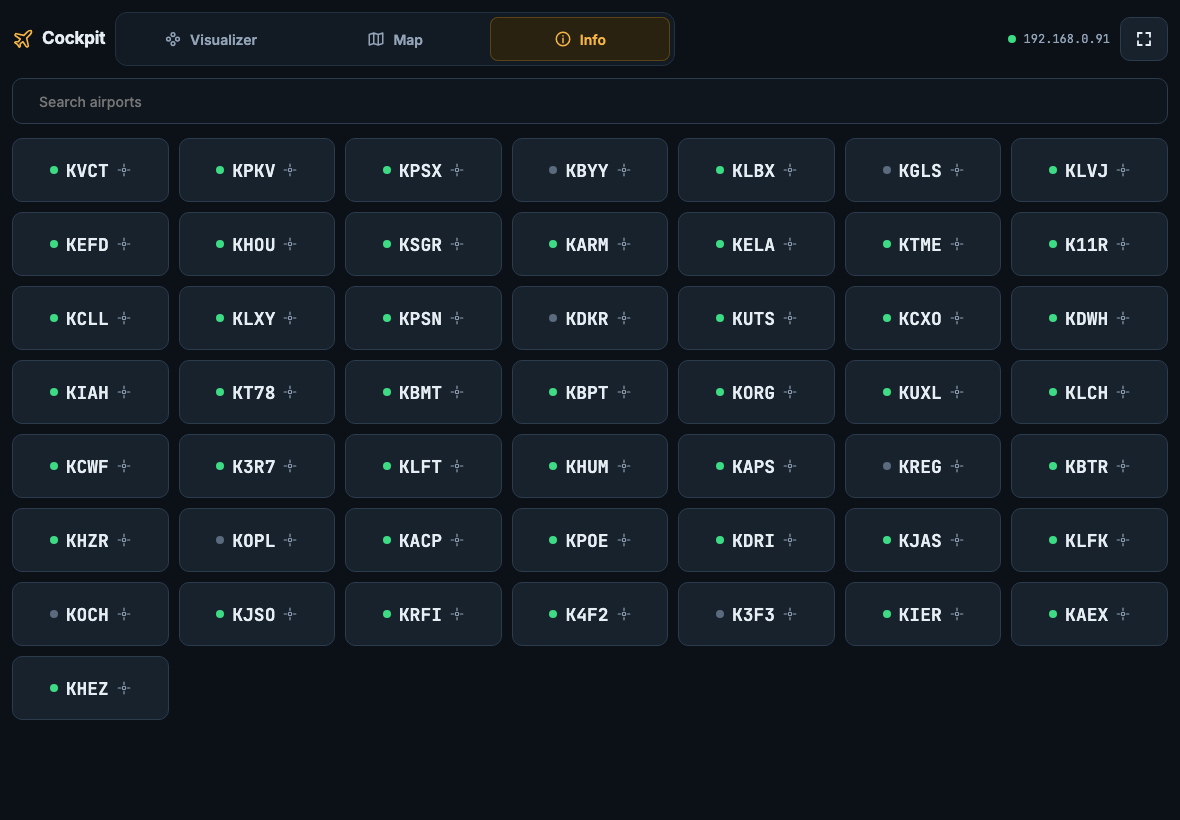
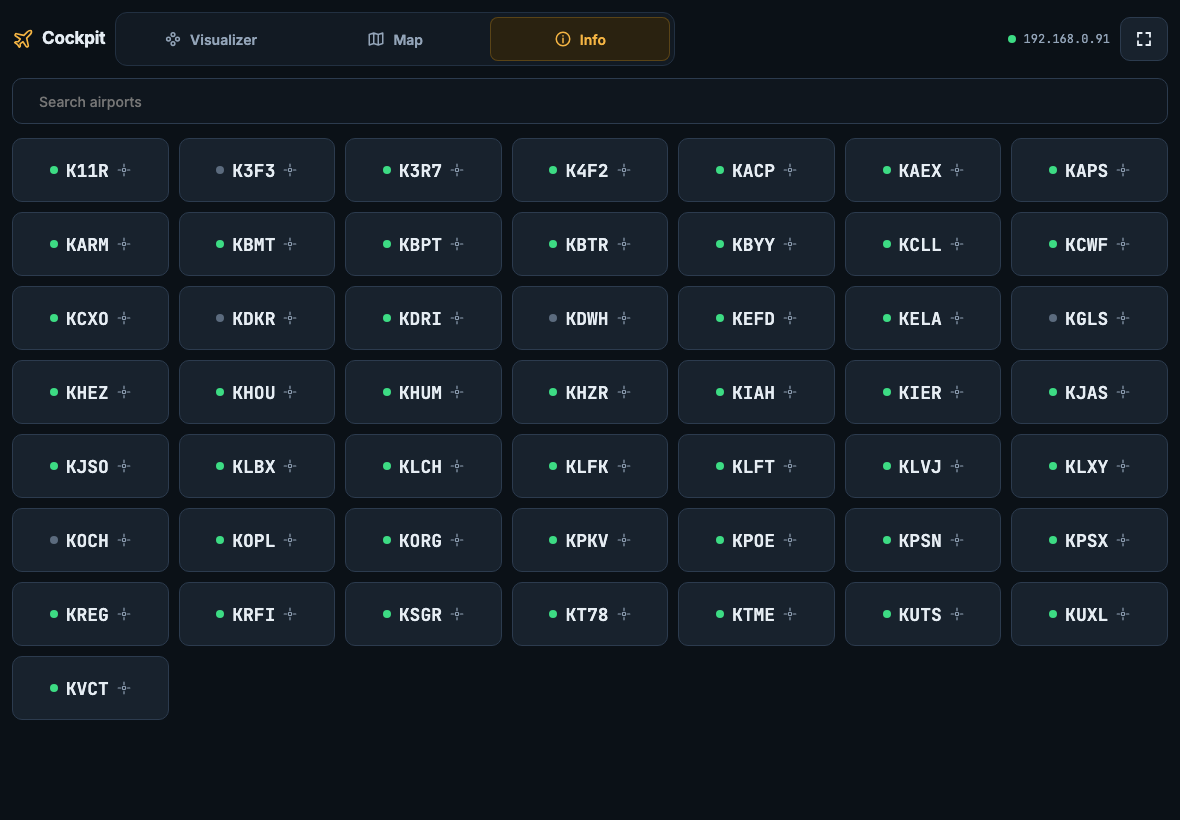
Cockpit Info tab: list the airports A to Z

diff --git a/tests/test_web.py b/tests/test_web.py
@@ -1639,8 +1639,11 @@ def test_the_info_tab_offers_awos_with_a_server(client):
     page = client("/cockpit")[1]
     assert info_modes(page) == ["locate", "awos"] and 'id="r-speak-audio"' in page
     codes = [a.code for a in client.services.config.airports if a.code]
-    assert re.findall(r'data-speak="([A-Z0-9]+)"', page) == codes  # each airport, in the map's order
+    assert re.findall(r'data-speak="([A-Z0-9]+)"', page) == sorted(codes)  # each airport, A to Z
     assert page.count('data-call="/locate/') == len(codes)  # Locate is the mode it opens in (cockpit.js)
+    pairs = re.findall(r'data-station="([A-Z0-9]+)"[^>]*?data-pixel="(\d+)"', page, re.S)
+    expected = [(a.code, str(i)) for i, a in enumerate(client.services.config.airports) if a.code]
+    assert pairs == sorted(expected)  # each tile keeps its own pixel; the map's list isn't reordered
 
 
 def test_the_info_tab_offers_atis_with_speech_atis(client):

diff --git a/src/metarmap/web/pages.py b/src/metarmap/web/pages.py
@@ -85,6 +85,7 @@ def cockpit(services: Services, site):
         site,
         "cockpit.tpl",
         stations=s,
+        airports=sorted(s, key=lambda a: a["code"]),  # the Info tab's tiles, A to Z (the map keeps its pixel order)
         cats=views.CATEGORIES,
         settings=views.map_settings(services.config.data.geo.map, site.sectionals, s),
         active=views.visualizer(services.renderer),

diff --git a/API.md b/API.md
@@ -866,7 +866,7 @@ backup and Undo as for a new plan.
 | `GET /metars` | | Table of METARs for every airport |
 | `GET /map` | | Live mirror of the Chart and the Micro on an FAA chart, satellite or radar background (a new radar scan every 5 minutes while radar is shown). An airport's popup has Summary, Raw and Decoded tabs, and with spoken weather on a Listen tab: its AWOS (showing the raw METAR), and its ATIS (the FAA's text, read along) where `leds[].atis` |
 | `GET /map/legend` | | The active visualizer's legend (HTML), which the Map page and the Cockpit swap in when the visualizer changes |
-| `GET /cockpit` | | MetarMap2 Cockpit: a remote control laid out for an iPad in kiosk mode, in three tabs: Visualizer (the visualizers and the legend, with a footer of controls: the auto-rotate switch with a countdown to the next visualizer, which is saved, and pixel brightness and the Micro switch, which aren't), Map (the Map page's live map, with its visualizer arrows and the name that opens a grid of every visualizer) and Info (every airport; a press locates it, or with spoken weather on, reads its AWOS (the bar showing the raw METAR), or with `speech.atis` its ATIS: Locate, AWOS and ATIS modes, ATIS showing only the airports with one). It follows changes made anywhere else (it polls `/api/live`). `/cockpit#map` or `#info` opens that tab, and `#locator`, `#awos` or `#atis` the Info tab in that mode; otherwise it opens the tab and mode last used on that device. *Add to Home Screen* opens it full screen. `GET /remote` (its old address) redirects here (303 See Other) |
+| `GET /cockpit` | | MetarMap2 Cockpit: a remote control laid out for an iPad in kiosk mode, in three tabs: Visualizer (the visualizers and the legend, with a footer of controls: the auto-rotate switch with a countdown to the next visualizer, which is saved, and pixel brightness and the Micro switch, which aren't), Map (the Map page's live map, with its visualizer arrows and the name that opens a grid of every visualizer) and Info (every airport, A to Z; a press locates it, or with spoken weather on, reads its AWOS (the bar showing the raw METAR), or with `speech.atis` its ATIS: Locate, AWOS and ATIS modes, ATIS showing only the airports with one). It follows changes made anywhere else (it polls `/api/live`). `/cockpit#map` or `#info` opens that tab, and `#locator`, `#awos` or `#atis` the Info tab in that mode; otherwise it opens the tab and mode last used on that device. *Add to Home Screen* opens it full screen. `GET /remote` (its old address) redirects here (303 See Other) |
 | `GET /raw` | | Raw METAR text for every airport, followed by the full parsed data |
 | `GET /raw/<code>` | | Raw METAR text for one airport |
 | `GET /debug` | | Debug information |

diff --git a/CHANGELIST.md b/CHANGELIST.md
@@ -1,5 +1,6 @@
 ### Unreleased
 
+- **The Cockpit's Info tab lists its airports A to Z.** Plain code order, so numbered identifiers (K11R, K3F3) come before KACP. The Map tab, `/api/live` and the Copilot keep pixel order. No API change.
 - **The Chart Planner has a Back view.** The **Build map** card's view buttons are now **Map | Board | Back**. Back draws the same plan seen from behind the board, flipped left to right, with the same pixel numbers, strings, cuts and joins, for placing the pixels from the back once the holes are drilled in the front. A note under the buttons says so, and the browser remembers the view. The printed plan (Download PDF) gets a Back view page after the board map; its note says to measure X from the top-right corner on that page. No API change.
 - **The README's first screen leads with the photo, a "Jump to" row and four highlights.** Documentation only; nothing changes on the Chart.
 
